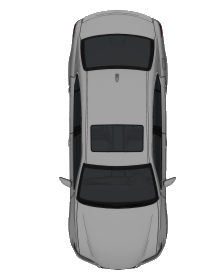
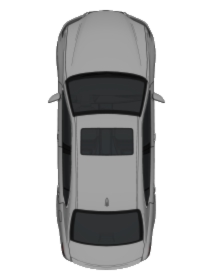
update location

diff --git a/src/components/route.component.vue b/src/components/route.component.vue
@@ -1,6 +1,6 @@
 <script>
 import { Polyline } from "vue3-google-map";
-import { getDistance } from "geolib";
+import { getDistance, getDistanceFromLine } from "geolib";
 
 function parsePosition(position) {
 	return { lat: position.lat() || position.lat, lng: position.lng() || position.lng };
@@ -19,8 +19,8 @@ export default {
 	data() {
 		return {
 			// position: { lat: 47.03754851396708, lng: 8.241221494119909 },
-			currentIndex: -1,
-			currentStep: -1,
+			currentIndex: 0,
+			currentStep: 0,
 		};
 	},
 	computed: {
@@ -35,60 +35,17 @@ export default {
 			if (!this.route?.overview_path) return [];
 			return this.fullRoute.slice(this.currentIndex);
 		},
+		currentStepInstructions() {
+			return this.route?.legs[0]?.steps[this.currentStep + 1]?.instructions;
+		},
 	},
 	watch: {
 		position: {
 			immediate: true,
 			deep: true,
-			handler(position) {
-				if (!this.route?.overview_path) return;
-
-				if (this.currentIndex == -1) {
-					let distance = Number.MAX_VALUE;
-					let shortestIndex = 0;
-					for (let i = 0; i < this.fullRoute.length; i++) {
-						const _distance = getDistance(position, parsePosition(this.fullRoute[i]));
-						if (_distance < distance) {
-							distance = _distance;
-							shortestIndex = i;
-						}
-					}
-					this.currentIndex = shortestIndex;
-				} else {
-					const lastWaypoint =
-						this.currentIndex == 0 ? Number.MAX_VALUE : getDistance(position, parsePosition(this.fullRoute[this.currentIndex - 1]));
-					const currentWaypoint = getDistance(position, parsePosition(this.fullRoute[this.currentIndex]));
-					const nextWaypoint =
-						this.fullRoute.length <= this.currentIndex
-							? Number.MAX_VALUE
-							: getDistance(position, parsePosition(this.fullRoute[this.currentIndex + 1]));
-					if (lastWaypoint < currentWaypoint && lastWaypoint < nextWaypoint) this.currentIndex--;
-					if (nextWaypoint < lastWaypoint && nextWaypoint < currentWaypoint) this.currentIndex++;
-				}
-
-				if (!this.route?.legs[0]?.steps) return;
-
-				if (this.currentStep == -1) {
-					let distance = Number.MAX_VALUE;
-					let shortestIndex = 0;
-					for (let i = 0; i < this.route.legs[0].steps.length; i++) {
-						const _distance = getDistance(position, parsePosition(this.route.legs[0].steps[i].end_location));
-						if (_distance < distance) {
-							distance = _distance;
-							shortestIndex = i;
-						}
-					}
-					this.currentStep = shortestIndex;
-				} else {
-					if (this.currentStep > this.route.legs[0].steps.length) return;
-					const currentStepDistance = getDistance(
-						parsePosition(this.route.legs[0].steps[this.currentStep].start_location),
-						parsePosition(this.route.legs[0].steps[this.currentStep].end_location)
-					);
-					const currentDistance = getDistance(parsePosition(this.route.legs[0].steps[this.currentStep].start_location), position);
-					console.log(currentDistance, currentStepDistance);
-					if (currentDistance > currentStepDistance) this.currentStep++;
-				}
+			handler() {
+				this.updateIndex();
+				this.updateStep();
 			},
 		},
 		currentIndex: {
@@ -103,13 +60,60 @@ export default {
 			},
 		},
 	},
+	methods: {
+		updateIndex() {
+			const lastWaypoint =
+				this.currentIndex == 0 ? Number.MAX_VALUE : getDistance(this.position, parsePosition(this.fullRoute[this.currentIndex - 1]));
+			const currentWaypoint = getDistance(this.position, parsePosition(this.fullRoute[this.currentIndex]));
+			const nextWaypoint =
+				this.fullRoute.length <= this.currentIndex
+					? Number.MAX_VALUE
+					: getDistance(this.position, parsePosition(this.fullRoute[this.currentIndex + 1]));
+
+			console.log(lastWaypoint, currentWaypoint, nextWaypoint);
+			if (nextWaypoint <= lastWaypoint && nextWaypoint <= currentWaypoint) {
+				this.currentIndex++;
+				this.updateIndex();
+			} else if (lastWaypoint < currentWaypoint && lastWaypoint < nextWaypoint) {
+				this.currentIndex--;
+				this.updateIndex();
+			}
+		},
+		updateStep() {
+			const lastStep = this.route.legs[0].steps[this.currentStep - 1];
+			const lastStepDistance =
+				lastStep == undefined
+					? Number.MAX_VALUE
+					: getDistanceFromLine(this.position, parsePosition(lastStep.start_location), parsePosition(lastStep.end_location));
+
+			const currentStep = this.route.legs[0].steps[this.currentStep];
+			const currentStepDistance =
+				currentStep == undefined
+					? Number.MAX_VALUE
+					: getDistanceFromLine(this.position, parsePosition(currentStep.start_location), parsePosition(currentStep.end_location));
+
+			const nextStep = this.route.legs[0].steps[this.currentStep + 1];
+			const nextStepDistance =
+				nextStep == undefined
+					? Number.MAX_VALUE
+					: getDistanceFromLine(this.position, parsePosition(nextStep.start_location), parsePosition(nextStep.end_location));
+
+			if (nextStepDistance < lastStepDistance && nextStepDistance < currentStepDistance) {
+				this.currentStep++;
+				this.updateStep();
+			} else if (lastStepDistance < currentStepDistance && lastStepDistance < nextStepDistance) {
+				this.currentStep--;
+				this.updateStep();
+			}
+		},
+	},
 };
 </script>
 
 <template v-if="route">
 	<Polyline v-if="pastRoute.length > 0" :options="{ path: pastRoute, strokeColor: '#333', strokeWeight: 8, strokeOpacity: 0.6 }" />
 	<Polyline v-if="futureRoute.length > 0" :options="{ path: futureRoute, strokeColor: '#0066ff', strokeWeight: 8, strokeOpacity: 0.8 }" />
-	<div v-if="route.legs[0].steps" class="route-info" v-html="route.legs[0].steps[currentStep + 1].instructions"></div>
+	<div v-if="currentStepInstructions" class="route-info" v-html="currentStepInstructions"></div>
 </template>
 
 <style lang="scss" scoped>

diff --git a/src/components/movement.component.vue b/src/components/movement.component.vue
@@ -2,13 +2,11 @@
 import { computeDestinationPoint, getCenterOfBounds, getDistance, getRhumbLineBearing } from "geolib";
 
 import Router from "@components/router.component.vue";
-import Car from "@components/car.component.vue";
 
 export default {
 	name: "MovementComponent",
 	components: {
 		Router,
-		Car,
 	},
 	props: {
 		ready: { type: Boolean, default: false },
@@ -26,6 +24,17 @@ export default {
 			fixedDirection: undefined,
 			path: undefined,
 		};
+	},
+	computed: {
+		options() {
+			return {
+				icon: {
+					url: window.location.origin + "/car.png",
+					scaledSize: { width: 50, height: 50 },
+					anchor: { x: 25, y: 25 },
+				},
+			};
+		},
 	},
 	watch: {
 		position: {
@@ -51,17 +60,24 @@ export default {
 			if (this.ready && this.payload.length > 0) {
 				const _payload = [];
 				while (this.payload.length > 0) _payload.push(this.payload.shift());
-				const centerPosition = getCenterOfBounds(_payload.map((item) => ({ latitude: item.lat, longitude: item.lng })));
-				const averageDirection =
+				let centerPosition = getCenterOfBounds(_payload.map((item) => ({ latitude: item.lat, longitude: item.lng })));
+				let averageDirection =
 					_payload
 						.filter((item) => item.track != undefined)
 						.map((item) => item.track)
 						.reduce((value, current) => value + current) / _payload.filter((item) => item.track != undefined).length;
 
-				if (this.path) {
-					console.log("path:", this.path);
-					// const distance = getDistance()
-				}
+				// if (this.path) {
+				// 	const startDistance = getDistance(parsePosition(this.path.from), centerPosition, 0.1);
+				// 	const pathDirection = getRhumbLineBearing(parsePosition(this.path.from), parsePosition(this.path.to));
+				// 	const predictedPosition = computeDestinationPoint(parsePosition(this.path.from), startDistance, pathDirection);
+				// 	console.log(
+				// 		getDistance(centerPosition, predictedPosition),
+				// 		getDistanceFromLine(centerPosition, parsePosition(this.path.from), parsePosition(this.path.to), 0.1)
+				// 	);
+				// 	if (getDistanceFromLine(centerPosition, parsePosition(this.path.from), parsePosition(this.path.to), 0.1) < 50)
+				// 		centerPosition = predictedPosition;
+				// }
 
 				if (this.follow)
 					this.move(
@@ -88,9 +104,13 @@ export default {
 			if (!from && !to) return;
 			if (!from) return this.map.panTo(to);
 			if (!fromHeading) return this.map.setHeading(toHeading);
-			const stepAmount = 40;
+			const stepAmount = 30;
 			const distance = getDistance(from, to, 0.01);
-			const headingDistance = toHeading - fromHeading;
+			let headingDistance = toHeading - fromHeading;
+			// if(headingDistance >= 180 || headingDistance <= -180) {
+
+			// }
+
 			const step = distance / stepAmount;
 			const headingStep = headingDistance / stepAmount;
 			const bearing = getRhumbLineBearing(from, to);
@@ -107,7 +127,7 @@ export default {
 </script>
 
 <template>
-	<Car :ready="ready" :position="fixedPosition" :map="map" />
+	<img src="@assets/car.png" style="position: absolute; top: 50%; left: 50%; transform: translate(-50%, -50%)" width="50" height="50" />
 	<Router ref="router" :ready="ready" :position="fixedPosition" :map="map" :api="api" @path="path = $event" />
 </template>
 

diff --git a/dist/index.html b/dist/index.html
@@ -1,1 +1,1 @@
-<!doctype html><html lang=""><head><meta charset="utf-8"/><meta http-equiv="X-UA-Compatible" content="IE=edge"/><meta name="viewport" content="width=device-width,initial-scale=1,maximum-scale=1,user-scalable=no"/><link rel="icon" href="/favicon.ico"/><title>vue-boilerplate</title><script defer="defer" src="/js/chunk-vendors.9b286fff.js"></script><script defer="defer" src="/js/app.8c105e39.js"></script><link href="/css/app.1fbbd92d.css" rel="stylesheet"></head><body><noscript><strong>We're sorry but vue-boilerplate doesn't work properly without JavaScript enabled. Please enable it to continue.</strong></noscript><div id="app"></div></body></html>
+<!doctype html><html lang=""><head><meta charset="utf-8"/><meta http-equiv="X-UA-Compatible" content="IE=edge"/><meta name="viewport" content="width=device-width,initial-scale=1,maximum-scale=1,user-scalable=no"/><link rel="icon" href="/favicon.ico"/><title>vue-boilerplate</title><script defer="defer" src="/js/chunk-vendors.9b286fff.js"></script><script defer="defer" src="/js/app.09cdf324.js"></script><link href="/css/app.1fbbd92d.css" rel="stylesheet"></head><body><noscript><strong>We're sorry but vue-boilerplate doesn't work properly without JavaScript enabled. Please enable it to continue.</strong></noscript><div id="app"></div></body></html>

diff --git a/src/components/car.component.vue b/src/components/car.component.vue
@@ -29,8 +29,8 @@ export default {
 				if (!this.$refs.marker) return;
 				if (!oldValue) return this.$refs.marker.marker.setPosition(value);
 				if (!value && !oldValue) return;
-				const stepAmount = 40;
-				const distance = getDistance(oldValue, value, 0.01);
+				const stepAmount = 80;
+				const distance = getDistance(oldValue, value, 0.001);
 				const step = distance / stepAmount;
 				const bearing = getRhumbLineBearing(oldValue, value);
 				for (let i = 0; i < stepAmount; i++) {

diff --git a/src/components/map.component.vue b/src/components/map.component.vue
@@ -61,6 +61,7 @@ export default {
 		:zoom="18"
 		:tilt="60"
 		:disableDefaultUi="true"
+		:draggable="false"
 		gestureHandling="cooperative"
 		mapId="9a664a373c810533"
 		language="de"

diff --git a/src/router/views/test.vue b/src/router/views/test.vue
@@ -12,7 +12,7 @@ export default {
 	data() {
 		return {
 			gps: undefined,
-			to: "",
+			to: "st niklausengasse 8",
 			keyboard: false,
 			recording: false,
 		};
